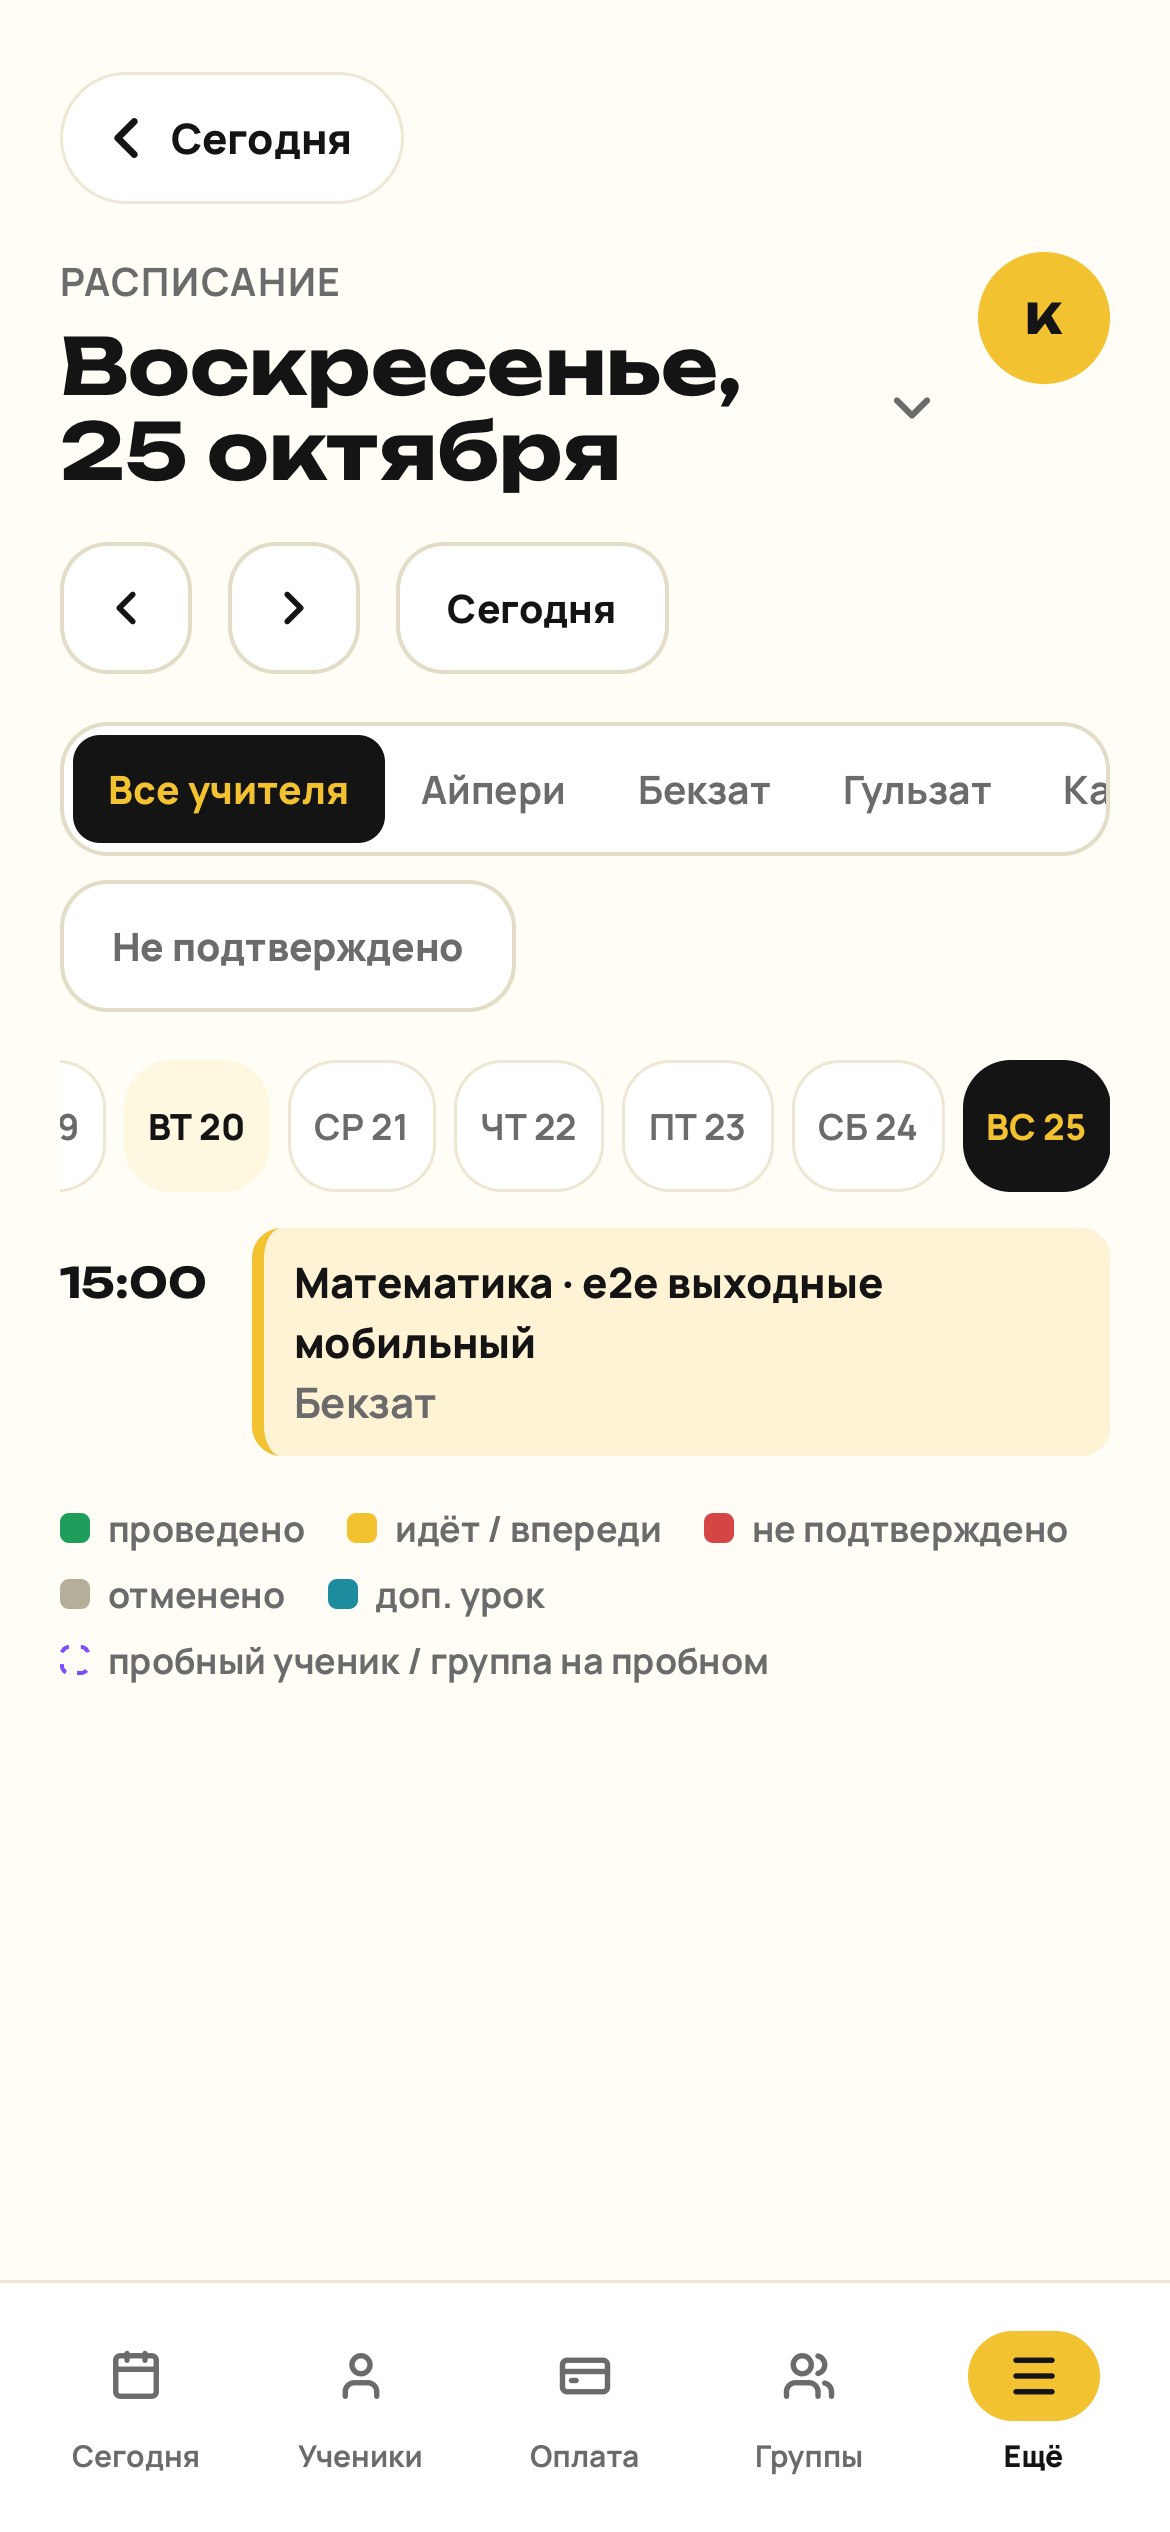
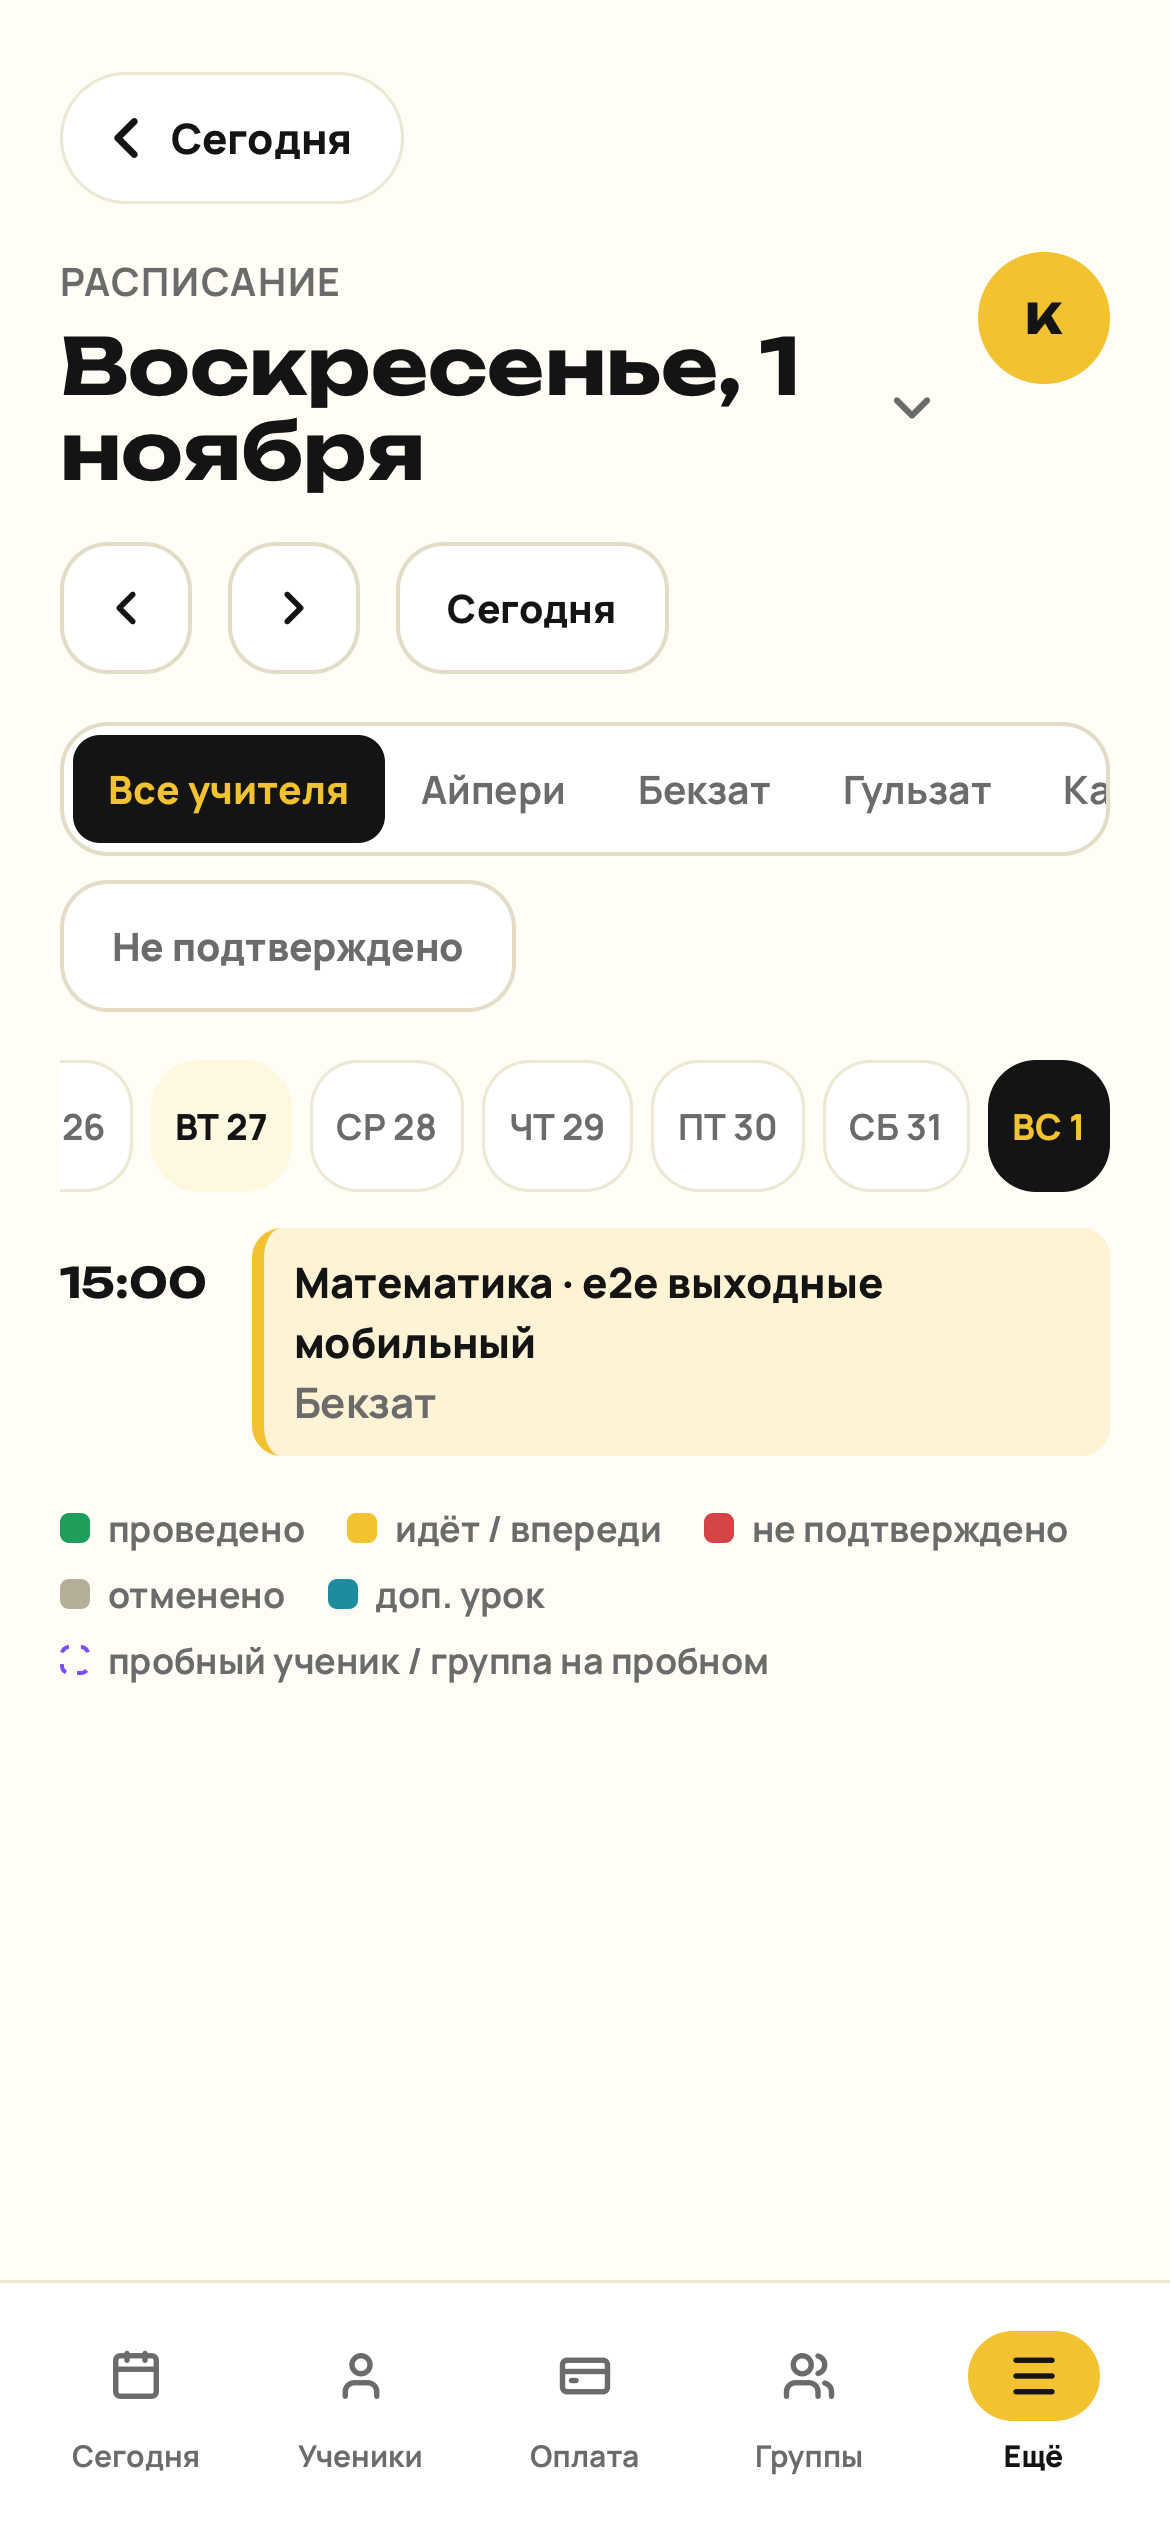
feat(lessons): У3/УД2 — остаток продлёнки в днях (#111)

diff --git a/src/features/lessons/attendance.ts b/src/features/lessons/attendance.ts
@@ -276,15 +276,17 @@ export function lessonRoster(
 }
 
 const LESSONS_GEN = ['урок', 'урока', 'уроков'] as const
+const DAYS_GEN = ['день', 'дня', 'дней'] as const
 const som = (n: number) => `${formatSom(n)} сом`
 
-/** «2 ур.» / «1,5 ч» — the unit of the subscription the mark goes to (#82). */
-const short = (b: Pick<Balance, 'unit'>, n: number) =>
-  b.unit === 'hour' ? `${formatHours(n)} ч` : `${n} ур.`
+/** «2 ур.» / «2 дн.» (after-school days, К13) / «1,5 ч» — the unit of the subscription (#82). */
+const short = (b: Pick<Balance, 'unit'>, n: number, days = false) =>
+  b.unit === 'hour' ? `${formatHours(n)} ч` : `${n} ${days ? 'дн.' : 'ур.'}`
 
 export type Tone = 'muted' | 'warn' | 'debt'
 
-type Meta = Pick<RosterRow, 'balance' | 'pay'>
+/** `hours` — set for an after-school student (the plan's hours that day): the package counts days. */
+type Meta = Pick<RosterRow, 'balance' | 'pay'> & { hours?: number | null }
 
 /** Up to 3 lessons «в долг» are a warning, beyond — red (В7). */
 const debtTone = (lessons: number): Tone => (debtOverLimit(lessons) ? 'debt' : 'warn')
@@ -300,26 +302,27 @@ export function mobileMeta(row: Meta): { text: string; tone: Tone } {
   const b = row.balance
   const p = row.pay
   if (!b || !p) return { text: 'Нет абонемента', tone: 'debt' }
+  const days = row.hours != null
   const freezes = `заморозок ${b.freezes}`
   if (p.state === 'debt') {
     return {
-      text: `Долг ${short(b, p.debtLessons)} · ${som(p.debtSom)}`,
+      text: `Долг ${short(b, p.debtLessons, days)} · ${som(p.debtSom)}`,
       tone: debtTone(p.debtLessons),
     }
   }
   if (p.state === 'soon') {
     const text = partlyPaid(b, p)
-      ? `Оплачено ещё ${short(b, p.available)}`
-      : `Осталось ${short(b, b.left)}`
+      ? `Оплачено ещё ${short(b, p.available, days)}`
+      : `Осталось ${short(b, b.left, days)}`
     return { text: `${text} · пора оплачивать`, tone: 'warn' }
   }
   if (p.state === 'partial') {
     return {
-      text: `Частично · оплачено ${b.unit === 'hour' ? short(b, p.paidLessons) : `${p.paidLessons} ур`} · ${freezes}`,
+      text: `Частично · оплачено ${b.unit === 'hour' ? short(b, p.paidLessons) : `${p.paidLessons} ${days ? 'дн' : 'ур'}`} · ${freezes}`,
       tone: 'warn',
     }
   }
-  return { text: `Осталось ${short(b, b.left)} · ${freezes}`, tone: 'muted' }
+  return { text: `Осталось ${short(b, b.left, days)} · ${freezes}`, tone: 'muted' }
 }
 
 /** «Абонемент» column (УД2): «4 из 12 · заморозок 1», «долг 2 урока · 533 сом». */
@@ -328,23 +331,24 @@ export function desktopMeta(row: Meta): { text: string; tone: Tone } {
   const p = row.pay
   if (!b || !p) return { text: 'нет абонемента', tone: 'debt' }
   const hour = b.unit === 'hour'
+  const days = row.hours != null
   if (p.state === 'debt') {
     return {
-      text: `долг ${hour ? short(b, p.debtLessons) : `${p.debtLessons} ${pluralRu(p.debtLessons, LESSONS_GEN)}`} · ${som(p.debtSom)}`,
+      text: `долг ${hour ? short(b, p.debtLessons) : `${p.debtLessons} ${pluralRu(p.debtLessons, days ? DAYS_GEN : LESSONS_GEN)}`} · ${som(p.debtSom)}`,
       tone: debtTone(p.debtLessons),
     }
   }
   const ofTotal = hour
     ? `${formatHours(b.left)} из ${formatHours(b.total)} ч`
-    : `${b.left} из ${b.total}`
+    : `${b.left} из ${b.total}${days ? ' дн.' : ''}`
   if (p.state === 'soon') {
-    const text = partlyPaid(b, p) ? `оплачено ещё ${short(b, p.available)}` : ofTotal
+    const text = partlyPaid(b, p) ? `оплачено ещё ${short(b, p.available, days)}` : ofTotal
     return { text: `${text} · пора оплачивать`, tone: 'warn' }
   }
   const freezes = `заморозок ${b.freezes}`
   if (p.state === 'partial') {
     return {
-      text: `частично · оплачено ${hour ? short(b, p.paidLessons) : `${p.paidLessons} ур`} · ${freezes}`,
+      text: `частично · оплачено ${hour ? short(b, p.paidLessons) : `${p.paidLessons} ${days ? 'дн' : 'ур'}`} · ${freezes}`,
       tone: 'warn',
     }
   }

diff --git a/src/features/lessons/attendance.test.ts b/src/features/lessons/attendance.test.ts
@@ -264,6 +264,10 @@ describe('captions', () => {
       tone: 'muted',
     })
     expect(mobileMeta(meta(times(11, 'present'))).text).toBe('Осталось 1 ур. · пора оплачивать')
+    // after-school (К13): the package counts days
+    expect(mobileMeta({ ...meta(times(11, 'present')), hours: 3 }).text).toBe(
+      'Осталось 1 дн. · пора оплачивать',
+    )
     expect(mobileMeta(meta(times(14, 'present')))).toEqual({
       text: 'Долг 2 ур. · 534 сом',
       tone: 'warn',
